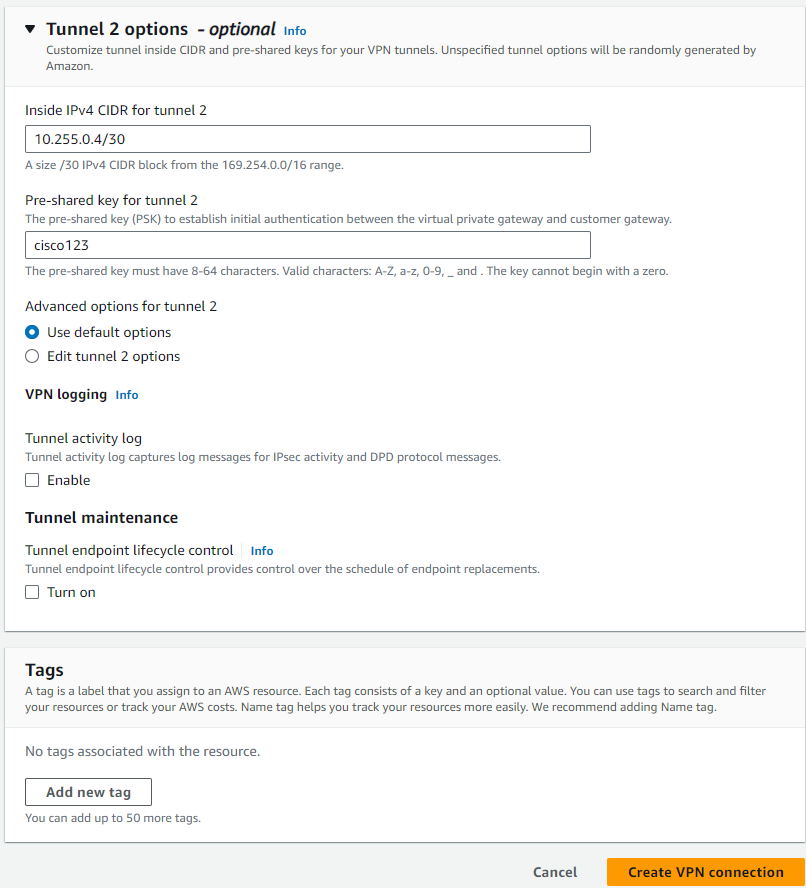
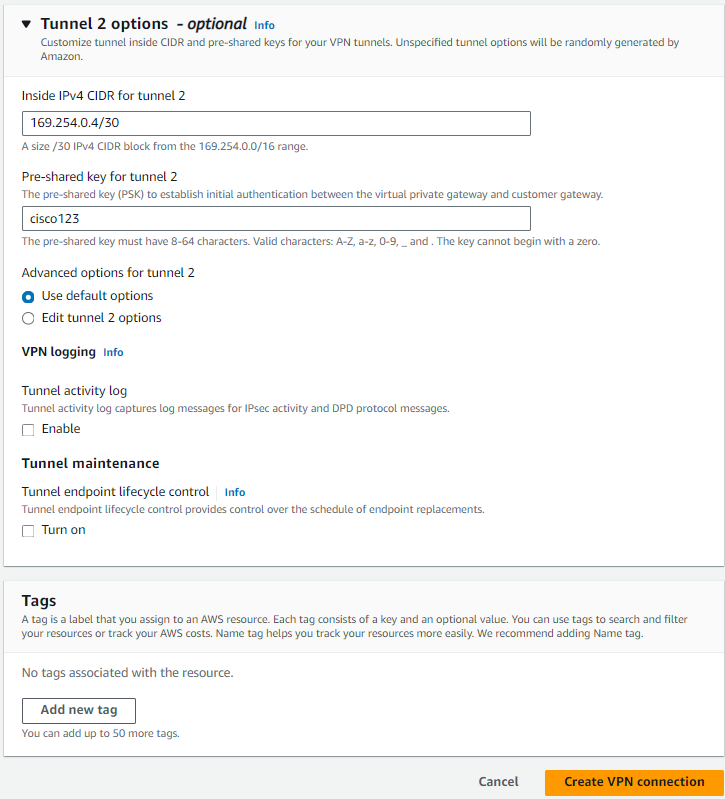
AWS Configure Site-to-Site VPN with GNS3 (6)

diff --git a/_posts/2024-09-03-AWS-IPSec-Site-to-Site-VPN.md b/_posts/2024-09-03-AWS-IPSec-Site-to-Site-VPN.md
@@ -13,7 +13,7 @@ This post explains step by step the configuration of a Site-to-Site VPN between 
 
 Overall, these are the steps:
 
-- Step 1 - AWS : Configure a Customer Gateway
+- Step 1 - AWS : Configure a Customer Gateway (CGW)
 - Step 2 - AWS : Configure a Virtual Private Gateway (VGW)
 - Step 3 - AWS : Attach the VGW to a VPC
 - Step 4 - AWS : Configure a Site-to-Site VPN connection
@@ -22,7 +22,7 @@ Overall, these are the steps:
 - Step 7 - GNS3 : Configure Router
 - Step 8 - Validate connectivity using ICMP packets (ping test)
 
-## Step 1 - AWS : Configure a Customer Gateway
+## Step 1 - AWS : Configure a Customer Gateway (CGW)
 
 ![]({{ site.baseurl }}/images/services/vpc.png)
 
@@ -82,11 +82,17 @@ Go next to **Virtual private network (VPN) > Site-to-Site VPN connections**
 
 Click on orange button **Create VPN connection** on the upper-right part of the screen.
 
+Select the **Virtual Private Gateway (VGW)** and **Customer Gateway (CGW)** created previously.
+
 ![]({{ site.baseurl }}/images/2024/09-03-AWS-IPSec-Site-to-Site-VPN/12-Create-VPN-connection-part1.png)
+
+We are also adding an **Inside IPv4 CIDR** which is the Tunnel Point-to-Point IP addressing and **Pre-shared key**. These are optional but we are using them here to make the template configuration for the Cisco Router easier to read.
 
 ![]({{ site.baseurl }}/images/2024/09-03-AWS-IPSec-Site-to-Site-VPN/13-Create-VPN-connection-part2.png)
 
 ![]({{ site.baseurl }}/images/2024/09-03-AWS-IPSec-Site-to-Site-VPN/14-Create-VPN-connection-part3.png)
+
+Click on the orange button **Create VPN connection**
 
 ## References
 
